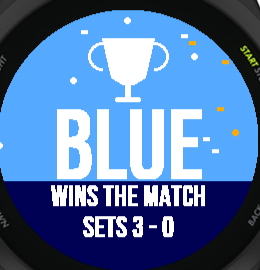
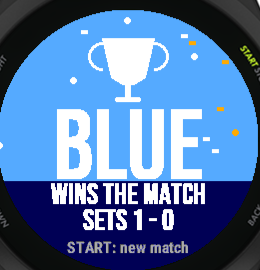
feat(volleyscore): sets to win 1-5, winner screen starts a new match, ask to restart when finished (#12)

Changed region(s): [[0.1846, 0.6519, 0.8, 0.9481]]

diff --git a/volleyscore/README.md b/volleyscore/README.md
@@ -7,9 +7,9 @@ A volleyball scoreboard for the Forerunner 255 (app name: Volleyball Score). Sid
 ![Match menu](../docs/images/volleyscore-menu.png) ![Points to win wheel](../docs/images/volleyscore-wheel.png) ![Tie-break wheel](../docs/images/volleyscore-cap.png)
 
 - Split screen: each team's half fills with its colour (light blue left, red right) as it scores, in proportion to the points needed to win the set, with a thin strip showing who is who at 0-0. Down the divider a dot per point of the set, on the side of the team that scored it (the last 12), so a run of points shows as a stack on one side. Big white points with a dark outline for contrast, and three dots above each score are the sets won (filled = won). A white ribbon on top shows the set and the score that wins it.
-- Sets go to 10 points by default (the fifth to 15 at most); first to 3 sets wins the match. **Points to win** (hold UP menu, a roulette selector) changes the set goal to any value from 1 to 25 (10 by default; the deciding set is at most 15); the choice is logged, so DOWN undoes it, and a new match keeps it.
+- Sets go to 10 points by default (the fifth to 15 at most); first to 3 sets wins the match; **Sets to win** (1 to 5) is in the menu too. **Points to win** (hold UP menu, a roulette selector) changes the set goal to any value from 1 to 25 (10 by default; the deciding set is at most 15); the choice is logged, so DOWN undoes it, and a new match keeps it.
 - **Tie ask**: when a set reaches one point short of its target all (24-24, or 14-14 in the fifth), a menu asks once per match how to play it out: Win by 2 (already highlighted, one press and carry on), Sudden death, Max +1, Max +2, or *Undo that point* if the tie was a slip. The choice is remembered, also for the next match, and can be changed in the hold-UP menu.
-- **Winner screen**: when the match ends the whole screen turns the winner's colour with a trophy, confetti and the set score. START or BACK returns to the scoreboard; DOWN takes the last point back.
+- **Winner screen**: when the match ends the whole screen turns the winner's colour with a trophy, confetti and the set score. START starts a new match (settings kept); DOWN takes the last point back; BACK returns to the finished scoreboard, where a point button asks "New match?".
 - Tie-break rules: **Win by 2** (default), **Sudden death** (tied one point short of the target, the next point wins), **Max +1** (first to target + 1) or **Max +2** (first to target + 2). It applies from that point on and a new match keeps the choice.
 - The serve marker (small white ball under the score) follows the team that scored the last point; change it from the menu.
 - A short buzz per point, a double buzz when a set ends, a long double buzz when the match ends.
